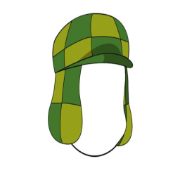
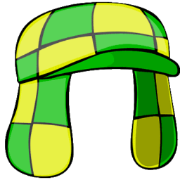
ok

diff --git a/exercicos/projeto-pessoal-1/index.html b/exercicos/projeto-pessoal-1/index.html
@@ -4,11 +4,7 @@
     <meta charset="UTF-8" />
     <meta name="viewport" content="width=device-width, initial-scale=1.0" />
     <title>Como surigiu o Chaves?</title>
-    <link
-      rel="shortcut icon"
-      href="imagens/favicon-32x32.png"
-      type="image/x-icon"
-    />
+    <link rel="shortcut icon" href="imagens/favicon-32x32.png" type="image/x-icon" />
   </head>
   <body></body>
 </html>